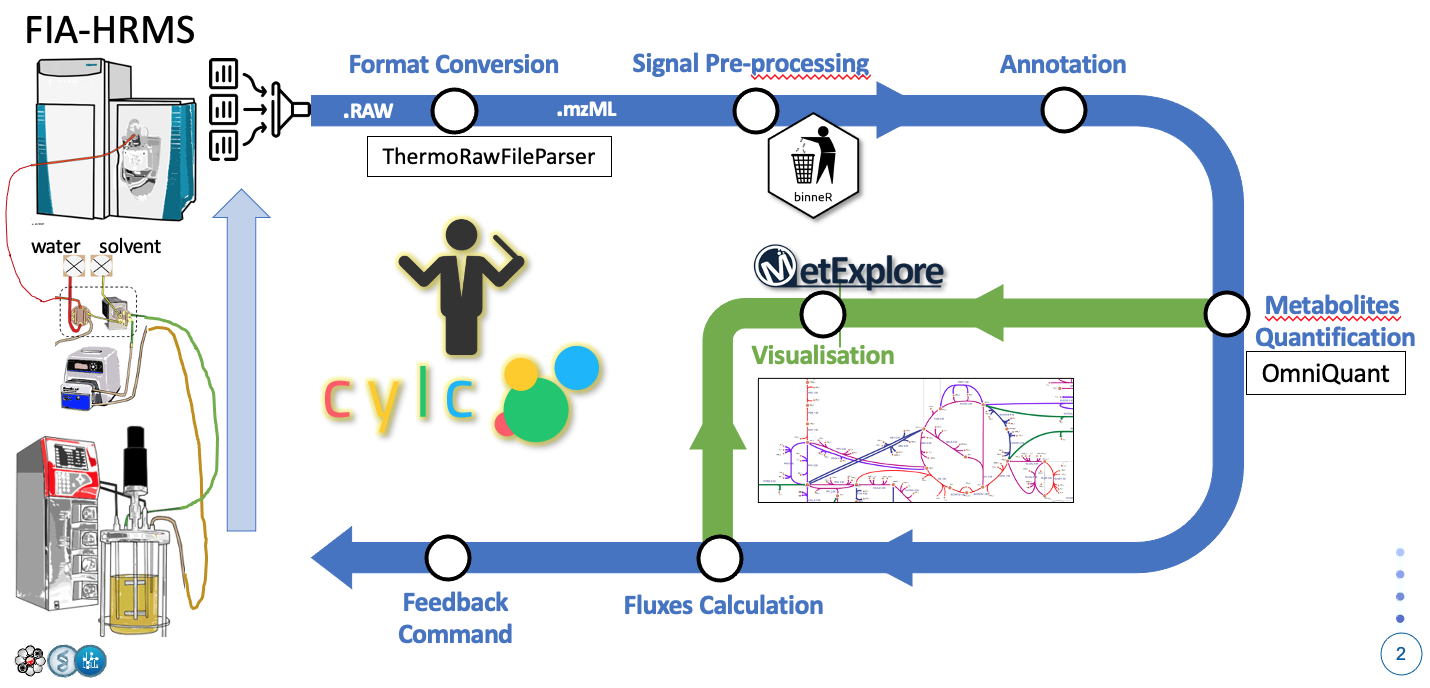
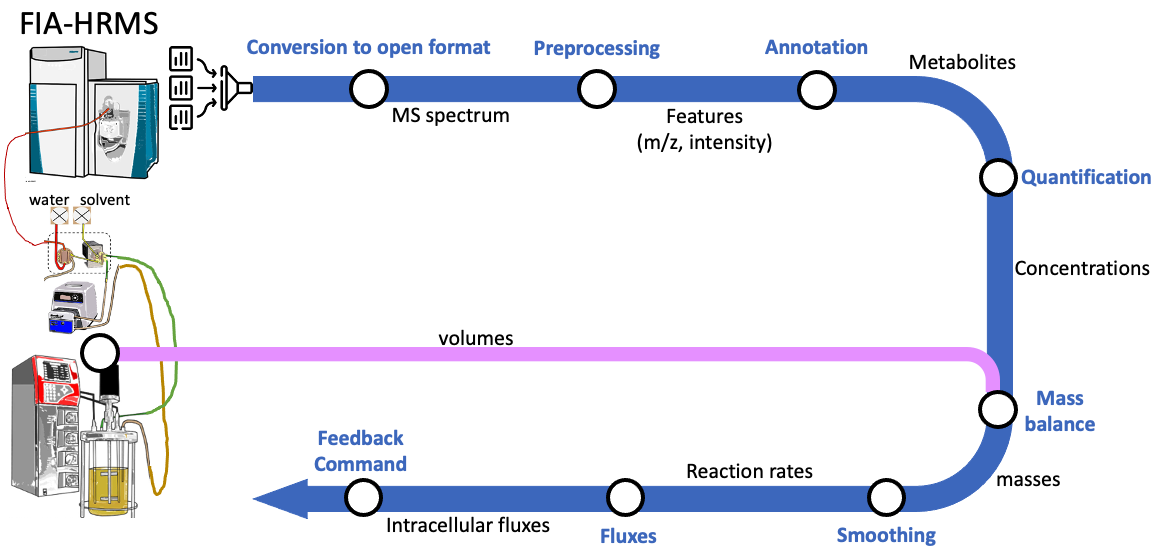
updated readme

diff --git a/README.md b/README.md
@@ -1,61 +1,125 @@
-# ⏱ RTMet - Real-Time Metabolomics for Fermenters
+# RTMet: Real-Time Metabolomics using Mass Spectrometry
 
 🏗 **[WORK IN PROGRESS]** 🏗
 
-RTMet is a data workflow to process FIA-MS data coming from a fermenter, find metabolites and fluxes, and send a feedback command to the fermenter.
+## ⏱ What is RTMet ?
+
+**RTMet is a scientific software which aims to facilitate real-time monitoring of metabolites and reaction rates in a fermenter.**
+
+At its core, it is a data pipeline for targeted metabolomics that automatically processes raw data coming from a mass spectrometer, find metabolites, estimate fluxes, and send a feedback command to the fermenter.
+
+The main goals are:
+- Allowing researchers to monitor in real time what is happening in the fermenter, at the chemical level.
+- Better control over the growth of micro-organisms and the bioprocesses at play, by automatically changing the fermenter parameters.
 
 ![Workflow Diagram](/workflow.png?raw=true "RTMet Workflow")
 
+## ⭐ Planned key features
+
+[🔴Todo] [🟠WIP] [🟢Done]
+
+- 🟠 Automatically fetch `.raw` files produced by the spectrometer,
+- 🟠 Process mass spectrometry data to find present metabolites and quantify them,
+- 🔴 Estimate extra-cellular and intra-cellular reaction rates and metabolic fluxes,
+- 🟢 Upload results to an InfluxDB instance (optional) to allow real-time plotting and easy query,
+- 🔴 Send a feedback command to the fermenter.
+
 ## 📥 Quick Install
 
+RTMet runs on Unix-like systems including Linux and MacOS.
+
 ```bash
-# install miniforge, or your favorite conda distribution.
+# Install your favorite conda distribution. We'll choose miniforge
 curl -L -O "https://github.com/conda-forge/miniforge/releases/latest/download/Miniforge3-$(uname)-$(uname -m).sh"
 bash Miniforge3-$(uname)-$(uname -m).sh
 
-# install cylc and setup wrapper script (must be in $PATH)
-mamba env create -f environments/cylc.yml
-mamba activate cylc
-cylc get-resources cylc /usr/local/bin/cylc
-chmod +x /usr/local/bin/cylc
-ln -s /usr/local/bin/cylc /usr/local/bin/rose
-mamba deactivate
+# Download the latest release of RTMet (TODO).
+curl -L -O "https://github.com/MetaboHUB-MetaToul-FluxoMet/RTMet/releases/latest/download/workflow.tar.gz"
+# Or clone this repository default branch.
+git clone https://github.com/MetaboHUB-MetaToul-FluxoMet/RTMet.git
+cd RTMet
 
-# cylc requires `bash`, GNU `coreutils` and `mail` (optional) which are not installed by conda. On MacOS, you can install them using brew
+# Create a symbolic link for Cylc to find the workflow
+mkdir ~/cylc-src
+ln -s cylc-src/bioreactor-workflow ~/cylc-src/bioreactor-workflow 
+
+# Install Cylc and setup the wrapper scripts
+cd cylc-src/bioreactor-workflow/environments
+conda env create -f cylc.yml
+WRAPPER_DIR='/usr/local/bin' # Or somewhere else in your $PATH
+conda activate cylc
+cylc get-resources cylc ${WRAPPER_DIR}/cylc
+conda deactivate
+chmod +x ${WRAPPER_DIR}/cylc
+ln -s ${WRAPPER_DIR}/cylc ${WRAPPER_DIR}/rose
+
+# Cylc requires `bash`, GNU `coreutils` and `mail` (optional), which are not installed by Conda.
+# You may already have them on your system.
+# On MacOS, you can install them using brew.
 brew install bash coreutils gnu-sed
 
-# install all workflow dependencies
-for file in environments/wf-*.yml; do conda env create -n $env_name -f $file; done
-mamba activate wf-binner
+# Create Conda environments used by workflow tasks
+for file in wf-*.yml; do conda env create -n $env_name -f $file; done
+conda activate wf-binner
 Rscript -e 'remotes::install_github('aberHRML/binneR')'
-mamba deactivate
+conda deactivate
 ```
 
-## 📝 User Configuration
+If you plan to use InfluxDB to store and visualize the results, you can find the installation instructions [here] (RTMet documentation, TODO).
 
-Metabolites database `.tsv` file should be put in the `db` directory.
+## 📝 Configuration
 
-User defined variables are in `external-triggering/flow.cylc` for now :
+User configuration is located in the `config/` directory of the workflow. User-defined variables can be changed in `config.ini`:
 
 ```ini
-[runtime]
-    [[root]]
-        [[[environment]]]
-            BINNER_THRES = 0.85
-            DATABASE_FILE = online_12C_NEG_SK_nodup.tsv # should be in the db folder
-            MZ_DB = 3 # column number for masses in the database file
-            NAMES_DB = 1 # column number for compounds names in the database
-            DELTA_TYPE = ppm # either ppm or dalton
-            DELTA = 10 # mass tolerance for annotation
+[template variables]
+# Necessary parameters
+cfg__mol_database='molecules_db.csv'
+cfg__spectrometer_id='orbitrap_01'
+cfg__tic_threshold=0.50
+cfg__ppm_tol=10
+
+# Optional InfluxDB Setup
+cfg__toggle_influxdb=False
+...
 ```
+
+The file (`molecules_db.csv`) containing metabolites *m/z* for ions to be matched against should also be edited depending on the metabolome you study.
 
 ## 🕹 How to use
 
-**[TO BE WRITTEN]**
+RTMet uses [Cylc](https://github.com/cylc/cylc-flow) as a workflow manager.
+So launching a run of (e.g. for a fed-batch run on your fermenter) is simply launching a run of the `bioreactor-workflow`.
+
+```bash
+# Validate, install, and run the workflow
+cylc vip bioreactor-workflow
+```
+
+It will copy most of the files contained in `~/cylc-src/bioreactor-workflow/` (source directory) to `~/cylc-run/bioreactor-workflow/run1/` (run directory).
+
+You can monitor the workflow using the Cylc GUI or TUI (terminal user interface).
+```bash
+# Launch Jupyter Server and open the GUI in your browser
+cylc gui bioreactor-workflow
+
+# Or use the TUI
+cylc tui bioreactor-workflow
+```
+
+The workflow is awaiting for `.raw` files. Right now, it simply looks for them in the `raws/` folder of the run directory.
+The raws files you provide should be numbered that way: 
+- `yourexperimentname_1.raw`,
+- `yourexperimentname_2.raw`,
+- ...
+- `yourexperimentname_17.raw`
+- ...
+
 
 ## 🚀 Roadmap
 
-- Move user config from `flow.cylc` to a [Rose](https://github.com/cylc/cylc-rose "Cylc-Rose Plugin") Suite Configuration for usability.
-- Try building a [Docker](https://www.docker.com/) image for the whole workflow.
-- Validate user input when launching the workflow (and assume it is clean in subsequent tasks).
-- Clearly define data template for I/O of each tasks, to lower coupling and increase modularity.
+- Implement the automatic polling of the spectrometer computer filesystem for new `.raw` files,
+- Continuous integration with GitHub Actions,
+- Try building a [Docker](https://www.docker.com/) image for the whole workflow,
+- Validate user input when launching the workflow (and assume it is clean in subsequent tasks),
+- ...
